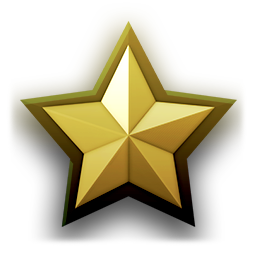
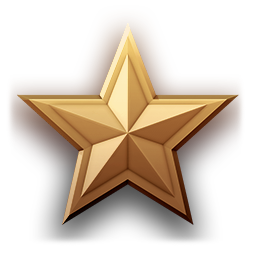
v0.0.17 ranks: stars are Sky Scholar (bronze), Hawk Eye (silver), High Flyer (gold, new art)
Claude-Session: https://claude.ai/code/session_01WVtVwSA278bNE4nXGcRcZg

diff --git a/assets/ranks/README.md b/assets/ranks/README.md
@@ -17,9 +17,9 @@ senior chevrons with bars), then the same star designs (one to four stars).
 | 7 | Hall Monitor | Sergeant Major | I–III | Gold upward chevrons: `hall-monitor-1.png` (one), `-2` (two), `-3` (three) |
 | 8 | Paper Hawk | Warrant Officer | I–III | Gold rocker chevrons: `paper-hawk-1.png` (one chevron over a rocker), `-2` (three over a rocker), `-3` (three, a rocker and two bars) |
 | 9 | Origami Ace | Lieutenant | I–III | Gold senior chevrons with three bars: `origami-ace-1.png` (plain centre), `-2` (diamond), `-3` (star) |
-| 10 | Star Pupil (proposed name) | Lieutenant | I–IV | Bronze stars: `star-pupil-1.png` (one), `-2` (two), `-3` (three in a triangle), `-4` (four in a diamond) |
+| 10 | Sky Scholar | Lieutenant | I–IV | Bronze stars: `sky-scholar-1.png` (one), `-2` (two), `-3` (three in a triangle), `-4` (four in a diamond) |
 | 11 | Hawk Eye | Captain | I–IV | Silver stars: `hawk-eye-1.png` (one), `-2` (two), `-3` (three in a triangle), `-4` (four in a diamond) |
-| 12 | Sky Scholar | Major | I–IV | Gold stars: `sky-scholar-1.png` (one). II–IV not received as files yet |
+| 12 | High Flyer | Major | I–IV | Gold stars: `high-flyer-1.png` (one), `-2` (two), `-3` (three in a triangle), `-4` (four in a diamond) |
 | 13 | Valedictorian | Colonel | I–III | Thin wings: `valedictorian-1.png` (bronze), `-2` (silver), `-3` (gold) |
 | 14 | Head of the Class | General | I–III | Thick wings: `head-of-the-class-1.png` (bronze), `-2` (silver), `-3` (gold) |
 | ∞ | Honor Roll | Marshal | One insignia, plus stars | `honor-roll.png` (gold swept wings) |
